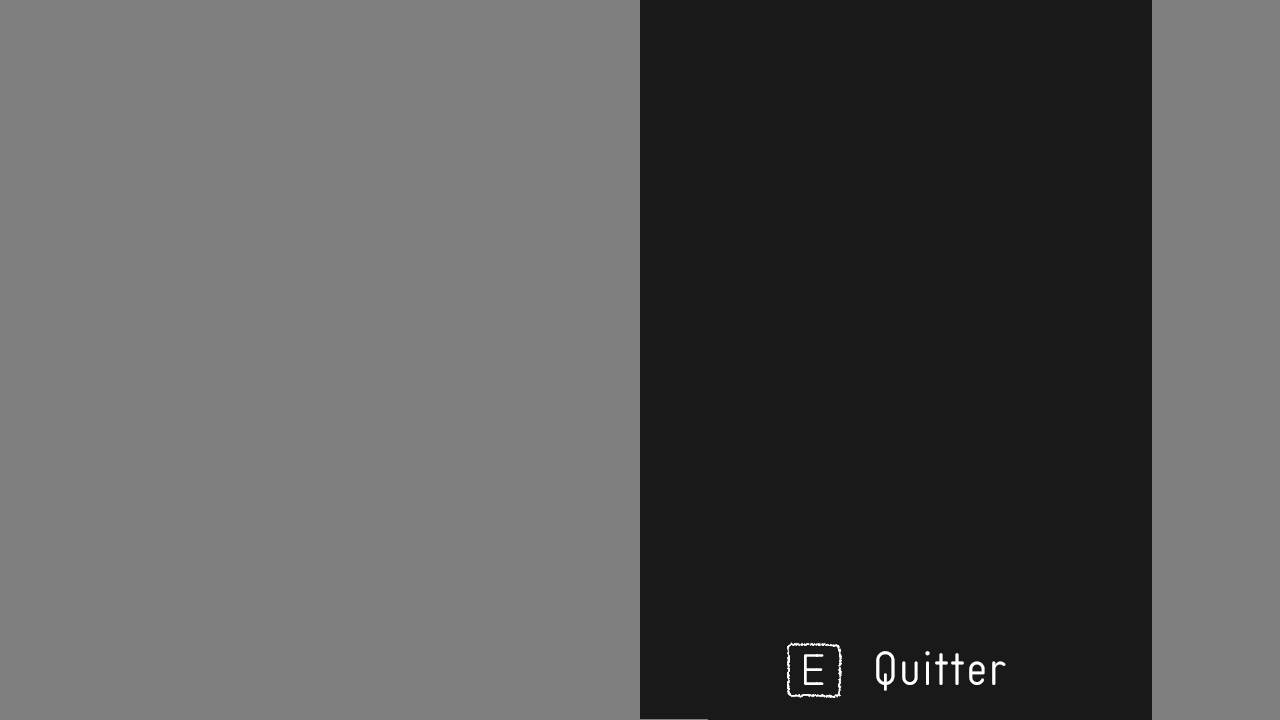
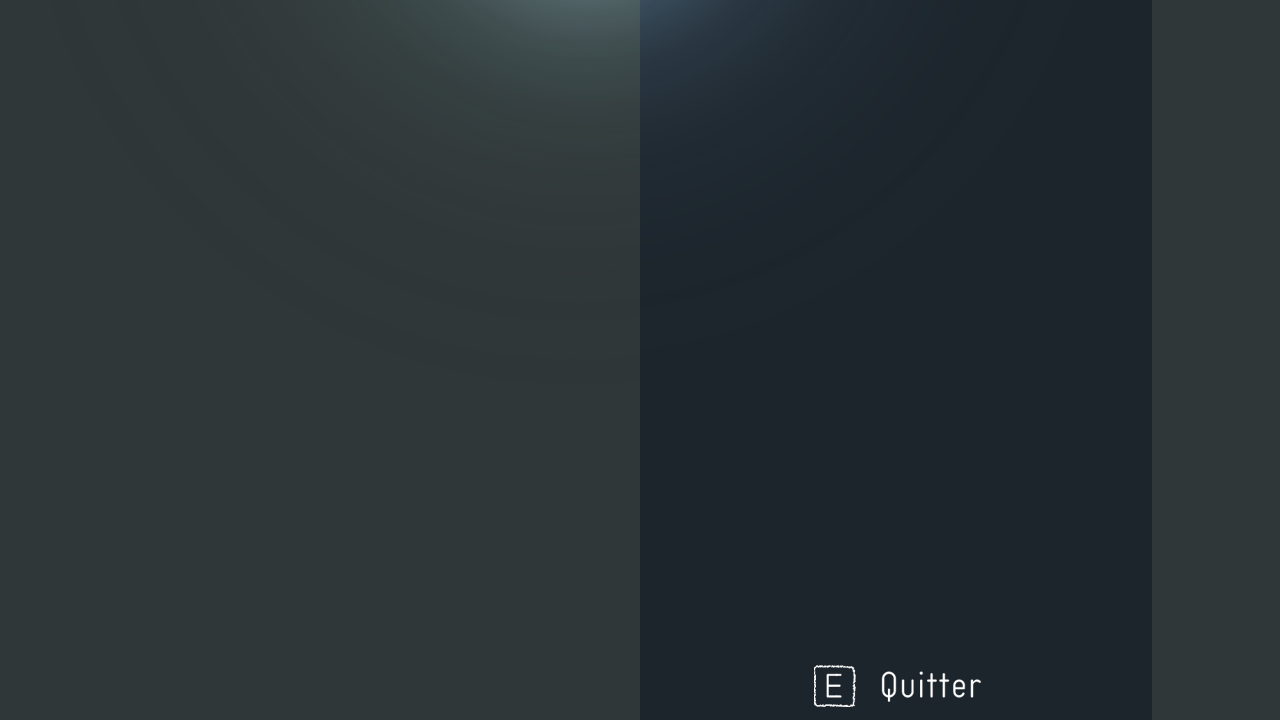
Add menu assets

diff --git a/src/Hud.cpp b/src/Hud.cpp
@@ -6,21 +6,19 @@
 
 void Hud::Init()
 {
-	Panel panel1("res/img/e_pickup.png", "e_pickup", 0.0, -0.9, 1.0, 288, 1, false);
-	Panel panel2("res/img/e_observe.png", "e_observe", 0.0, -0.9, 1.0, 288, 1, false);
-	Panel panel3("res/img/ui_crystal.png", "ui_crystal", 0.8, -0.7, 1.0, 128, 5, true);
-	Panel panel4("res/img/ui_health.png", "ui_health", 0.8, -0.7, 1.0, 128, 9, true);
-	Panel panel5("res/img/inv_key.png", "inv_key", 0.9, -0.1, 0.6, 128, 3, true);
-	Panel panel6("res/img/inv_map.png", "inv_map", 0.9, -0.3, 0.6, 128, 3, true);
-	Panel panel7("res/img/background.png", "background", 0, 0, 1, 1280, 1, false);
+	std::vector<Panel> panels = {
+		Panel("res/img/e_pickup.png", "p_pickup", 0.0, -0.9, 0.5, 288, 1, false),
+		Panel("res/img/e_observe.png", "p_observe", 0.0, -0.9, 0.5, 288, 1, false),
+		Panel("res/img/ui_crystal.png", "p_crystal", 0.8, -0.7, 1.0, 128, 5, true),
+		Panel("res/img/ui_health.png", "p_health", 0.811, -0.7, 1.0, 128, 8, true),
+		Panel("res/img/inv_key.png", "p_key", 0.9, 0.1, 0.4, 128, 3, true),
+		Panel("res/img/inv_map.png", "p_map", 0.9, -0.1, 0.4, 128, 3, true),
+		Panel("res/img/background.png", "p_background", 0, 0, 1, 1280, 1, false)
+	};
 
-	_panels.insert({ "pickup", panel1 });
-	_panels.insert({ "observe", panel2 });
-	_panels.insert({ "crystal", panel3 });
-	_panels.insert({ "health", panel4 });
-	_panels.insert({ "key", panel5 });
-	_panels.insert({ "map", panel6 });
-	_panels.insert({ "background", panel7 });
+	for (const Panel& panel : panels)
+		AddPanel( panel.GetName() , panel );
+	
 
 }
 
@@ -34,44 +32,47 @@ void Hud::Update()
 
 	if (_state != ScreenState::OBJMENU)
 	{
-		_panels.find("health")->second.setVisibility(true);
-		_panels.find("crystal")->second.setVisibility(true);
-		_panels.find("key")->second.setVisibility(true);
-		_panels.find("map")->second.setVisibility(true);
+		_panels.find("p_health")->second.setVisibility(true);
+		_panels.find("p_crystal")->second.setVisibility(true);
+		_panels.find("p_key")->second.setVisibility(true);
+		_panels.find("p_map")->second.setVisibility(true);
 	}
 	else
 	{
-		_panels.find("background")->second.setVisibility(true);
+		_panels.find("p_background")->second.setVisibility(true);
 	}
 	
 }
 
 
-void Hud::Draw() const
+void Hud::Draw() const 
 {
 	glDisable(GL_DEPTH_TEST);
-	for (const std::pair<std::string,Panel> panelPair : _panels) {
-		if (panelPair.second.IsVisible()) {
-			panelPair.second.Draw();
+	glEnable(GL_BLEND);
+	glBlendFunc(GL_SRC_ALPHA, GL_ONE_MINUS_SRC_ALPHA);
+
+	for (const std::string& pname : _insertionOrder) {
+		if (_panels.find(pname)->second.IsVisible()) {
+			_panels.find(pname)->second.Draw();
 		}
 	}
-	glEnable(GL_DEPTH_TEST);
 
-	// Disable interactive panels
-	//Hud::Get().SetVisibility("use", false);
+	glEnable(GL_DEPTH_TEST);
+	glDisable(GL_BLEND);
+
 }
 
 void Hud::Scroll(int dir) {
 
 	if (Game::Get().HasKey())
 	{
-		auto key = _panels.find("key");
+		auto key = _panels.find("p_key");
 		if (key != _panels.end()) 
 			key->second.TranslateTexture(dir);
 	}	
 	if (Game::Get().Hasmap())
 	{
-		auto map = _panels.find("map");
+		auto map = _panels.find("p_map");
 		if (map != _panels.end()) 
 			map->second.TranslateTexture(dir);
 	}
@@ -83,6 +84,7 @@ void Hud::Scroll(int dir) {
 
 
 void Hud::AddPanel(const std::string& name, const Panel& panel) {
+	_insertionOrder.push_back(name);
 	_panels.insert({ name, panel });
 
 }

diff --git a/src/InputHandler.cpp b/src/InputHandler.cpp
@@ -13,7 +13,7 @@ void InputHandler::ProcessInput(GLFWwindow* window, Camera& camera, float deltaT
         glfwSetWindowShouldClose(window, true);
 
     //std::cout << "State_" << (int)_state << std::endl;
-    std::cout << "Key___" << (int)_ActiveKey << std::endl;
+    //std::cout << "Key___" << (int)_ActiveKey << std::endl;
 
     ScreenState state = Hud::Get().GetState();
 
@@ -35,15 +35,7 @@ void InputHandler::ProcessInput(GLFWwindow* window, Camera& camera, float deltaT
 
     // Open Narrative Object Panel
     // ===================================================================================================
-    bool panelVisible = false;
-    try {
-        panelVisible = Hud::Get().IsVisible("observe");
-    }
-    catch (const std::string& e) {
-        std::cerr << e << std::endl;
-    }
-
-    if (panelVisible || state == ScreenState::OBJMENU)
+    if (Hud::Get().IsVisible("p_observe") || state == ScreenState::OBJMENU)
     {
         if (glfwGetKey(window, GLFW_KEY_E) == GLFW_PRESS && _ActiveKey != ActiveKey::E) // C Qwerty = C Azerty
         {
@@ -59,7 +51,8 @@ void InputHandler::ProcessInput(GLFWwindow* window, Camera& camera, float deltaT
 
     // Pick Up Object 
     // ===================================================================================================
-    if (Hud::Get().IsVisible("pickup"))
+    
+    if (Hud::Get().IsVisible("p_pickup"))
     {
         if (glfwGetKey(window, GLFW_KEY_E) == GLFW_PRESS && _ActiveKey != ActiveKey::E) // C Qwerty = C Azerty
         {

diff --git a/src/EntityImporter.cpp b/src/EntityImporter.cpp
@@ -217,14 +217,14 @@ std::unordered_map<std::string, std::shared_ptr<Object>> EntityImporter::Objects
 			position.y = terrain->GetHeightOfTerrain(position.x, position.z);
 			std::shared_ptr<Object> object;
 			if (type == "Um") // [TO DO] if map or key add an argument / constructor is not updates yet
-				object = std::make_shared<UsableObject>(model, position, "p_" + name, "map");
+				object = std::make_shared<UsableObject>(model, position, "o_" + name, "map");
 			else if (type == "Uk") // [TO DO] if map or key add an argument / constructor is not updates yet
-				object = std::make_shared<UsableObject>(model, position, "p_" + name, "key");
+				object = std::make_shared<UsableObject>(model, position, "o_" + name, "key");
 			else if (type == "N")
 			{
-				Panel panel = Panel(texPath, "p_" + name, 0, 0, 1, 512, 1, false);
-				Hud::Get().AddPanel("p_" + name, panel);
-				object = std::make_shared<NarrativeObject>(model, position, "p_" + name);
+				Panel panel = Panel(texPath, "o_" + name, 0.4, 0, 1, 512, 1, false);
+				Hud::Get().AddPanel("o_" + name, panel);
+				object = std::make_shared<NarrativeObject>(model, position, "o_" + name);
 			}
 			
 				

diff --git a/src/Scene.cpp b/src/Scene.cpp
@@ -41,10 +41,6 @@ void Scene::Init(const std::string& pathScene)
 	// ========================================================
 	std::string sceneFileContent = ResourceManager::Get().LoadTextFile(pathScene);
 
-	// Ui shader loading & Hud creation
-	// ================================
-	ResourceManager::Get().LoadShader("res/shaders/3DTex_ui.vert", "res/shaders/model.frag", "Ui");
-	Hud::Get().Init();
 
 	// Load all Shaders
 	// ================
@@ -97,10 +93,15 @@ void Scene::Init(const std::string& pathScene)
 	// ===============================================
 	CollisionLayout cLayout_House(true, true, false);
 
+	// Ui shader loading & Hud creation
+	// ================================
+	ResourceManager::Get().LoadShader("res/shaders/3DTex_ui.vert", "res/shaders/model.frag", "Ui");
+	Hud::Get().Init();
 
 	// Create Objects
 	// ==============
 	_objects = EntityImporter::Get().Objects("res/scene/objects.txt", _terrain);
+
 
 	// Init Game
 	// =========

diff --git a/src/Camera.cpp b/src/Camera.cpp
@@ -4,7 +4,7 @@
 float Lerp(float start, float end, float t);
 
 Camera::Camera(const std::shared_ptr<Terrain>& terrain)
-	: _terrain(terrain), _Position(300, _terrain->GetHeightOfTerrain(300, 800) + 5.0f, 800), _phi(M_PI), _theta(0), _CanTurn(false),
+	: _terrain(terrain), _Position(450, _terrain->GetHeightOfTerrain(450, 250) + 5.0f, 250), _phi(M_PI), _theta(0), _CanTurn(false),
 	_lastX(450.0f), _lastY(320.0f), _sensitivity(8.0f),
 	_cBox(std::make_shared<CollisionBox>(glm::vec3(_Position), _cBoxWidth, _HeightCamera, _cBoxWidth))	
 {

diff --git a/src/Panel.cpp b/src/Panel.cpp
@@ -5,7 +5,7 @@
 
 
 Panel::Panel(const std::string& texture, const std::string& name, float x, float y, float scale, int spriteSize, int nbSprite, bool visibility):
-	_modelMatrix(glm::mat4(1.0f)), _nbSprite(nbSprite), _visibility(visibility)
+	_modelMatrix(glm::mat4(1.0f)), _nbSprite(nbSprite), _visibility(visibility), _name(name)
 {
 	//
 	// [TODO] :: put Global window size

diff --git a/src/Hud.hpp b/src/Hud.hpp
@@ -3,6 +3,7 @@
 #include "Panel.hpp"
 #include "ResourceManager.hpp"
 #include <unordered_map>
+#include <list>
 
 enum class ScreenState
 {
@@ -35,7 +36,7 @@ private:
 	Hud() = default;
 	~Hud() = default ;
 	std::unordered_map<std::string, Panel> _panels;
-
+	std::list<std::string> _insertionOrder;
 	ScreenState _state = ScreenState::INGAME;
 
 };

diff --git a/src/NarrativeObject.hpp b/src/NarrativeObject.hpp
@@ -21,7 +21,7 @@ public:
 	{	
 
 		if (Hud::Get().GetState() != ScreenState::OBJMENU)
-			Hud::Get().SetVisibility("observe", true);
+			Hud::Get().SetVisibility("p_observe", true);
 		
 		if (Hud::Get().GetState() == ScreenState::OBJMENU)
 			Hud::Get().SetVisibility(_panelName, true);

diff --git a/src/UsableObject.hpp b/src/UsableObject.hpp
@@ -18,7 +18,7 @@ public:
 	{
 		if (_InWorld)
 		{
-			Hud::Get().SetVisibility("pickup", true);
+			Hud::Get().SetVisibility("p_pickup", true);
 		}
 		if (InputHandler::Get().GetActiveKey() == ActiveKey::E)
 		{
